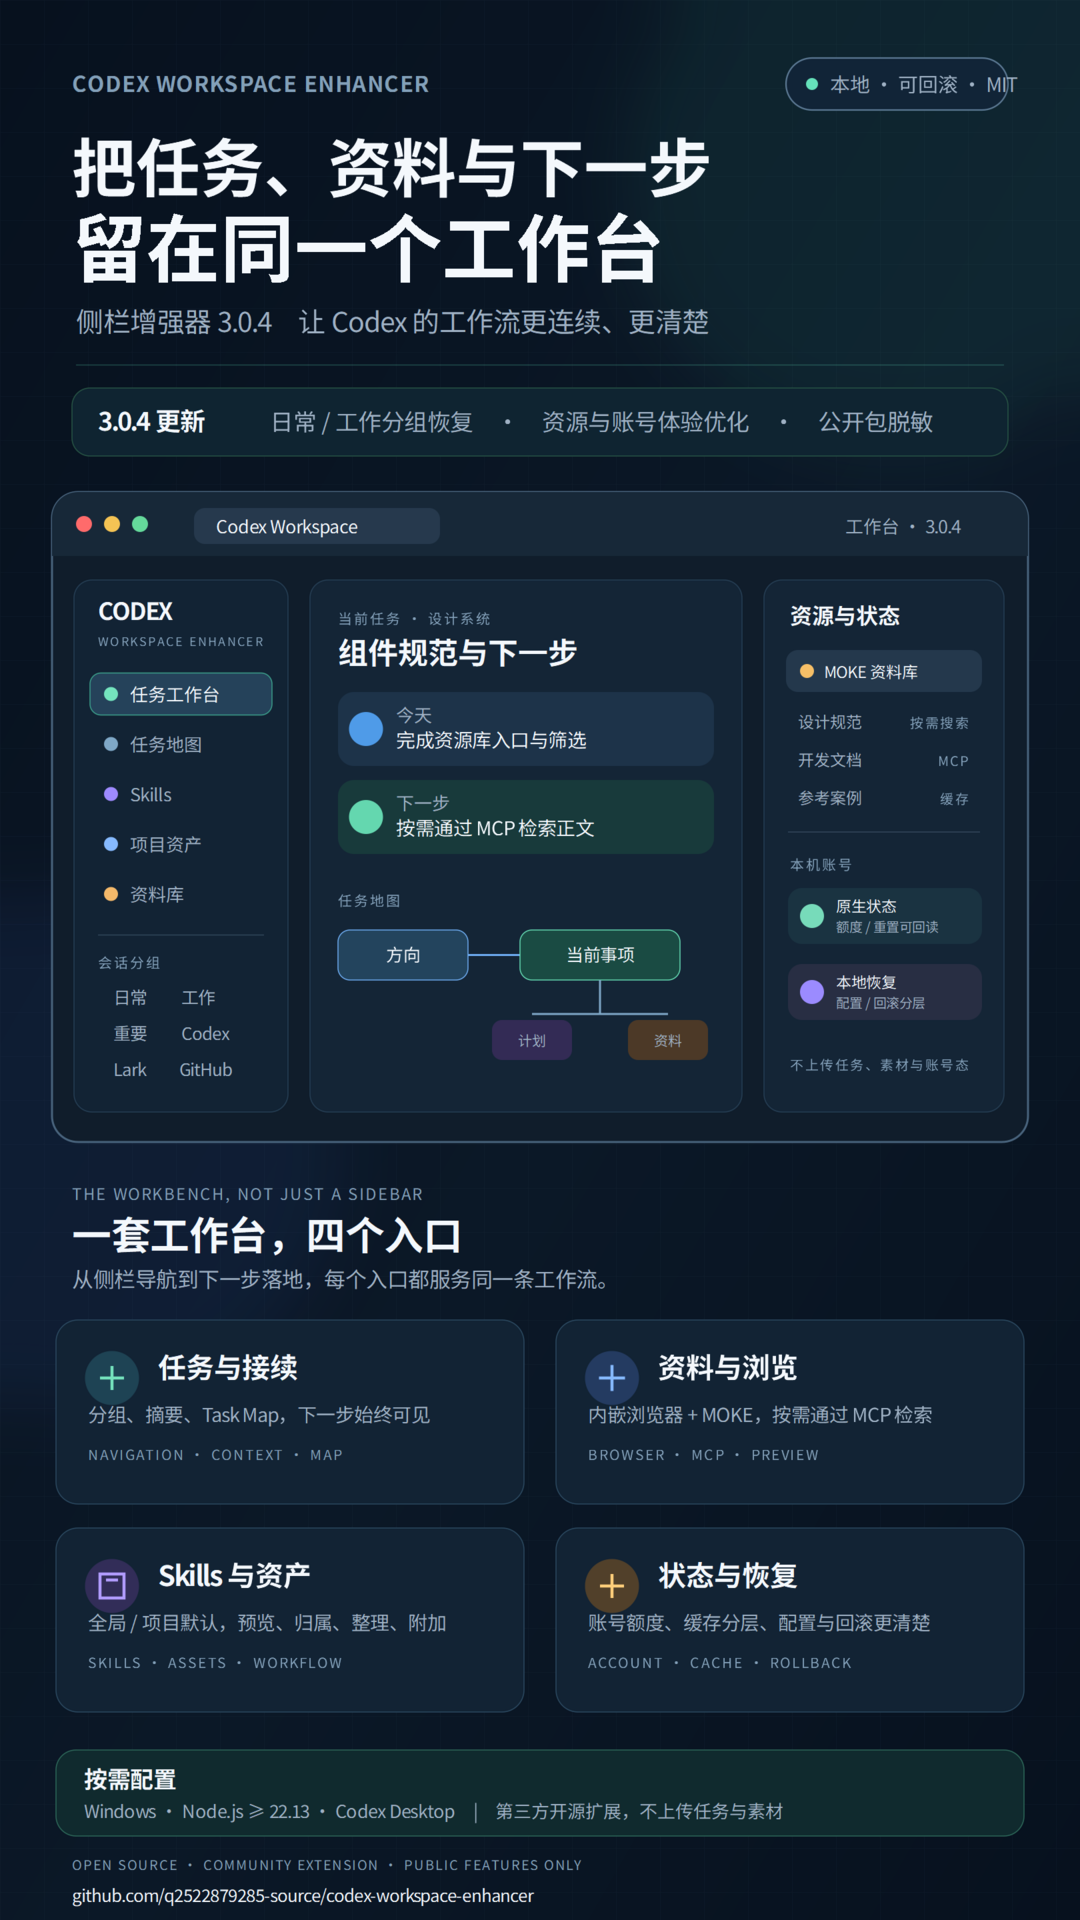
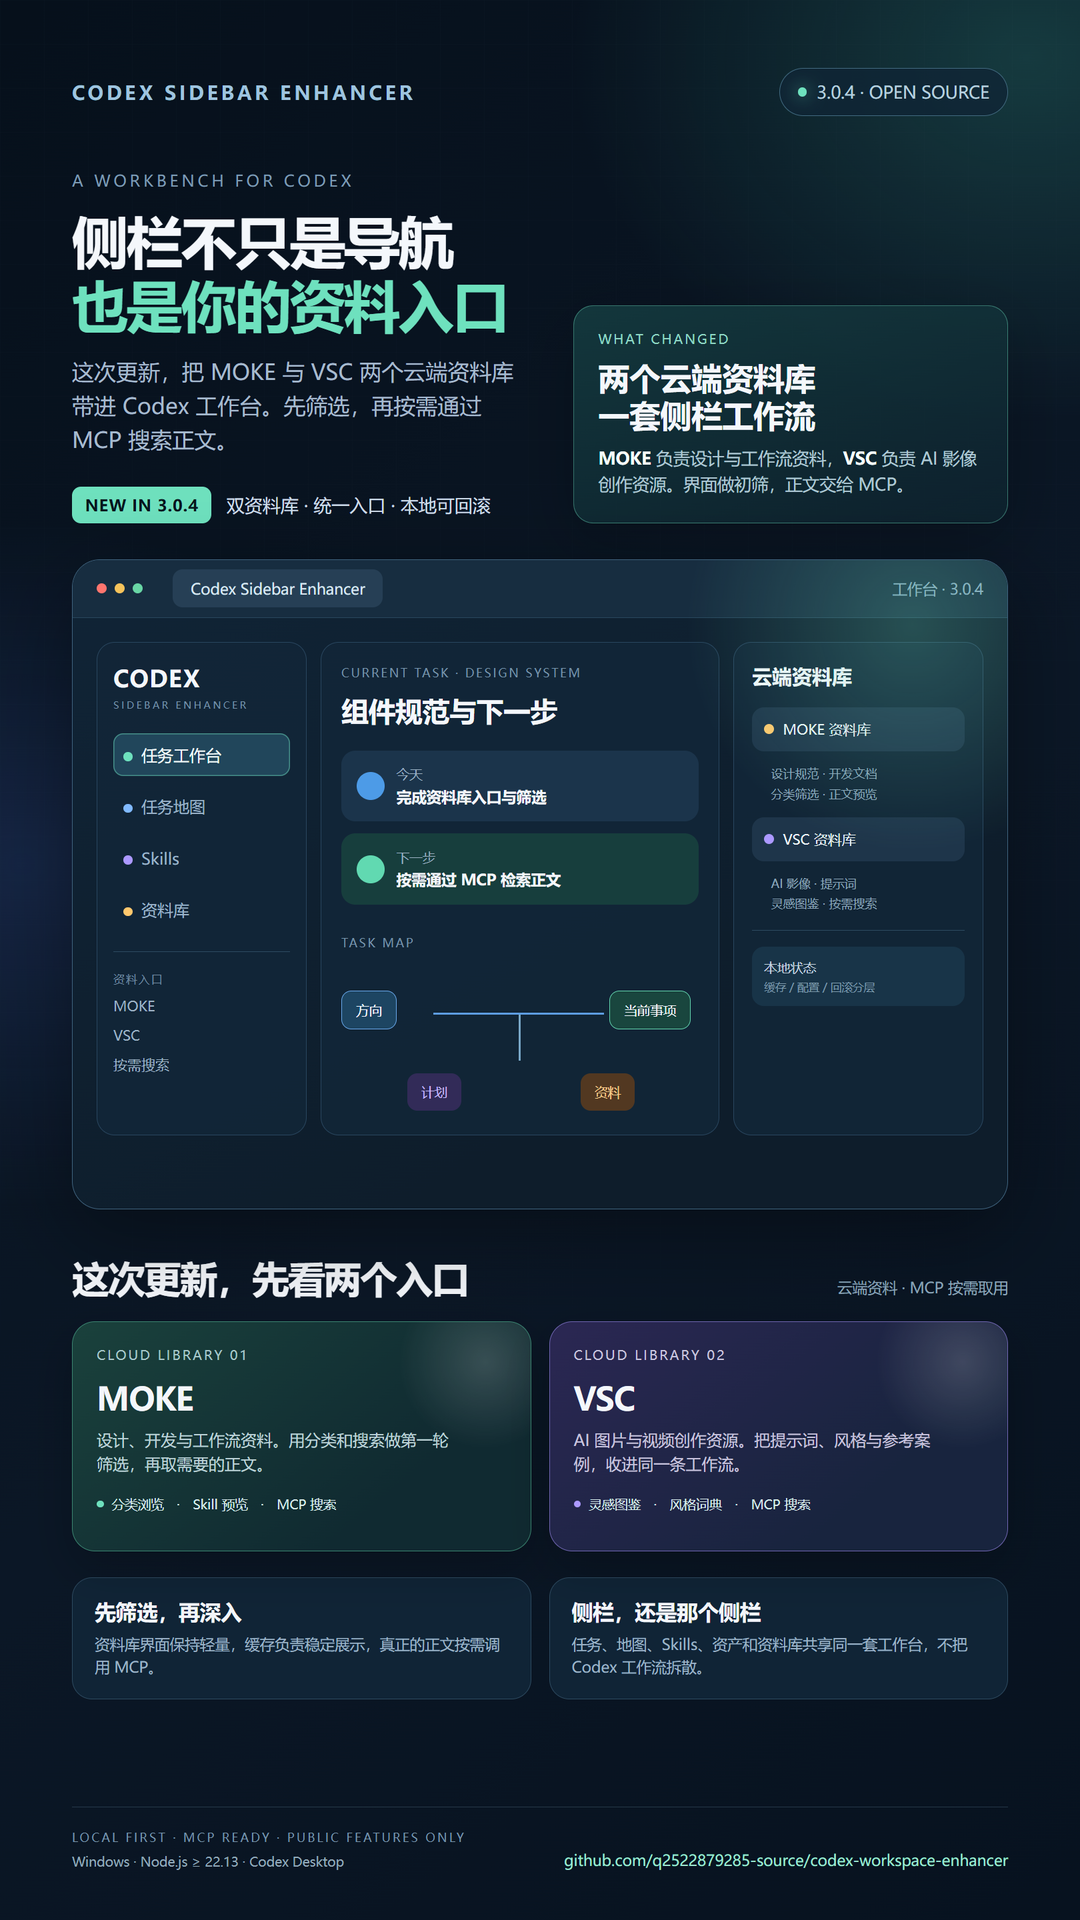
Highlight MOKE and VSC cloud libraries

diff --git a/docs/codex-workspace-enhancer-onepage.html b/docs/codex-workspace-enhancer-onepage.html
@@ -1,0 +1,25 @@
+<!doctype html>
+<html lang="zh-CN">
+<head>
+<meta charset="utf-8">
+<meta name="viewport" content="width=1080, initial-scale=1">
+<title>Codex Sidebar Enhancer 3.0.4</title>
+<style>
+:root{--ink:#07111d;--panel:#0f2030;--panel2:#142a3d;--line:#28455b;--text:#f4f7fb;--muted:#9fb4c8;--soft:#718ba2;--mint:#6ee1be;--mint2:#2fae9a;--blue:#81baff;--violet:#ac99ff;--amber:#ffc86d;--coral:#ff8b76}
+*{box-sizing:border-box} html,body{margin:0;width:1080px;height:1920px;background:var(--ink);color:var(--text);font-family:"Microsoft YaHei","Noto Sans SC",Arial,sans-serif} body{overflow:hidden}
+.canvas{position:relative;width:1080px;height:1920px;padding:68px 72px 52px;overflow:hidden;background:radial-gradient(700px 560px at 95% 3%,rgba(62,180,158,.24),transparent 65%),radial-gradient(620px 520px at 2% 45%,rgba(76,115,225,.18),transparent 66%),linear-gradient(140deg,#06101b 0%,#0b1726 56%,#07121f 100%)}
+.canvas:before{content:"";position:absolute;inset:0;opacity:.28;background-image:linear-gradient(rgba(150,180,210,.06) 1px,transparent 1px),linear-gradient(90deg,rgba(150,180,210,.06) 1px,transparent 1px);background-size:44px 44px;mask-image:linear-gradient(to bottom,black 0%,transparent 88%)}
+.content{position:relative;z-index:1}
+.topline{display:flex;justify-content:space-between;align-items:center;margin-bottom:54px}.brand{font-size:19px;letter-spacing:3.2px;color:#9fc4df;font-weight:700}.badge{display:flex;gap:10px;align-items:center;border:1px solid #426a80;border-radius:999px;padding:12px 18px;color:#b7d0df;font-size:17px;background:rgba(15,35,52,.76)}.dot{width:9px;height:9px;border-radius:50%;background:var(--mint);box-shadow:0 0 18px rgba(110,225,190,.8)}
+.hero{display:grid;grid-template-columns:1.03fr .97fr;gap:40px;align-items:start;margin-bottom:36px}.eyebrow{font-size:16px;letter-spacing:3.1px;color:#7d9bb3;margin-bottom:18px}.title{font-size:56px;line-height:1.14;letter-spacing:-1.6px;font-weight:800;margin:0 0 18px}.title em{font-style:normal;color:var(--mint)}.sub{font-size:22px;line-height:1.55;color:#a7bbce;margin:0;max-width:520px}.release{margin-top:30px;display:flex;align-items:center;gap:15px;color:#cfdeea;font-size:18px}.release b{color:#06161d;background:var(--mint);padding:8px 13px;border-radius:9px;font-size:16px;letter-spacing:.5px}.hero-note{align-self:end;padding:24px 24px 26px;border:1px solid rgba(110,225,190,.42);border-radius:20px;background:linear-gradient(160deg,rgba(21,60,64,.86),rgba(13,34,46,.84));box-shadow:0 18px 60px rgba(0,0,0,.2)}.hero-note .kicker{font-size:13px;letter-spacing:2px;color:#8fd8c5;margin-bottom:12px}.hero-note h2{font-size:31px;line-height:1.2;margin:0 0 12px}.hero-note p{font-size:17px;line-height:1.5;color:#b0c9d4;margin:0}.hero-note strong{color:#f7fffd}
+.stage{position:relative;margin-top:24px;height:650px;border:1px solid #3f637e;border-radius:28px;background:linear-gradient(150deg,#102436,#0e1d2b 72%);box-shadow:0 26px 80px rgba(0,0,0,.34);overflow:hidden}.stage:before{content:"";position:absolute;width:470px;height:470px;right:-140px;top:-170px;border-radius:50%;background:radial-gradient(circle,rgba(111,225,190,.25),transparent 68%)}.stagebar{height:58px;display:flex;align-items:center;padding:0 24px;gap:10px;background:#172d40;border-bottom:1px solid #28475d}.lights{display:flex;gap:8px}.light{width:10px;height:10px;border-radius:50%}.l1{background:#ff756e}.l2{background:#f6c35b}.l3{background:#69d6a5}.windowlabel{margin-left:20px;background:#263f55;padding:9px 18px;border-radius:10px;color:#d9e7f1;font-size:15px}.stagever{margin-left:auto;color:#8ea9bf;font-size:15px}.stagebody{display:grid;grid-template-columns:210px 1fr 250px;gap:14px;padding:24px}.rail,.work,.context{border:1px solid #29465f;border-radius:18px;background:rgba(18,38,55,.9)}.rail{padding:20px 16px}.railbrand{font-size:23px;font-weight:800;letter-spacing:1px}.railsmall{font-size:10px;letter-spacing:2.2px;color:#7592a9;margin-top:5px}.nav{margin-top:22px;display:grid;gap:9px}.navitem{padding:11px 10px;border-radius:10px;color:#9db5c9;font-size:16px}.navitem.active{background:#21465b;color:#f2fbfa;box-shadow:inset 0 0 0 1px rgba(110,225,190,.48)}.navitem span{display:inline-block;width:9px;height:9px;border-radius:50%;margin-right:9px}.n1{background:var(--mint)}.n2{background:var(--blue)}.n3{background:var(--violet)}.n4{background:var(--amber)}.railrule{height:1px;background:#2d4b61;margin:20px 0}.railhint{font-size:11px;color:#718ba2;letter-spacing:1.6px}.railgroups{font-size:14px;color:#9eb4c7;line-height:2.1;margin-top:5px}.work{padding:22px 20px}.worklabel{font-size:12px;letter-spacing:1.7px;color:#7794aa}.work h3{font-size:27px;margin:12px 0 22px}.taskrow{padding:15px 15px;border-radius:14px;background:#1b344b;margin-bottom:12px;display:flex;gap:12px;align-items:center}.taskrow.green{background:#173e3d}.taskicon{width:28px;height:28px;border-radius:50%;background:#4d9be7}.green .taskicon{background:#61d9b1}.taskrow small{display:block;font-size:13px;color:#9bb1c3;margin-bottom:3px}.taskrow b{font-size:15px;font-weight:600}.maplabel{font-size:12px;letter-spacing:1.7px;color:#7794aa;margin-top:30px}.map{position:relative;height:150px;margin-top:12px}.node{position:absolute;padding:10px 14px;border-radius:10px;font-size:13px}.node.a{left:0;top:28px;background:#1d4562;border:1px solid #69a9ed}.node.b{right:8px;top:28px;background:#19463e;border:1px solid #63d5b0}.node.c{left:66px;bottom:2px;background:#322b58;color:#c7bbff}.node.d{right:64px;bottom:2px;background:#523821;color:#f7cd8f}.mapline{position:absolute;top:50px;left:92px;right:95px;border-top:2px solid #5d9de2}.mapline:after{content:"";position:absolute;left:50%;top:0;height:46px;border-left:2px solid #79a8c8}.context{padding:20px 18px}.context h4{font-size:20px;margin:0 0 18px}.libmini{border-radius:12px;padding:13px 12px;margin-bottom:12px;display:flex;align-items:center;gap:9px;background:#1e354a;color:#eef6fa;font-size:14px}.libdot{width:10px;height:10px;border-radius:50%}.moke{background:var(--amber)}.vsc{background:var(--violet)}.ctxmeta{font-size:12px;color:#8da7bb;line-height:1.7;margin:0 0 13px 19px}.ctxrule{height:1px;background:#2d4b61;margin:16px 0}.account{font-size:13px;color:#c6d5e0;padding:12px;border-radius:12px;background:#183448}.account span{display:block;font-size:11px;color:#7e9bad;margin-top:4px}
+.sectionhead{display:flex;align-items:end;justify-content:space-between;margin-top:44px;margin-bottom:19px}.sectionhead h2{font-size:37px;letter-spacing:-1px;margin:0}.sectionhead p{color:#8fa9bd;font-size:15px;margin:0 0 5px}.cloud-grid{display:grid;grid-template-columns:1fr 1fr;gap:18px}.cloud{position:relative;min-height:230px;padding:24px;border-radius:23px;overflow:hidden;box-shadow:0 18px 45px rgba(0,0,0,.2)}.cloud.moke-card{background:linear-gradient(140deg,#1a413c,#102a31 72%);border:1px solid #3b8571}.cloud.vsc-card{background:linear-gradient(140deg,#2b2753,#18243e 72%);border:1px solid #6f65b1}.cloud:after{content:"";position:absolute;width:180px;height:180px;right:-45px;top:-50px;border-radius:50%;background:radial-gradient(circle,rgba(255,255,255,.16),transparent 68%)}.cloud .cloudtag{font-size:13px;letter-spacing:2px;color:#a7c8ca}.cloud h3{font-size:32px;margin:13px 0 9px;letter-spacing:-.8px}.cloud p{font-size:16px;color:#bfd4d8;line-height:1.5;margin:0;max-width:360px}.cloud .route{display:flex;gap:8px;align-items:center;margin-top:19px;font-size:13px;color:#d9ecec}.route i{width:7px;height:7px;border-radius:50%;background:var(--mint)}.vsc-card .cloudtag,.vsc-card p{color:#c9c5df}.vsc-card .route i{background:var(--violet)}
+.bottom{margin-top:26px;display:grid;grid-template-columns:1fr 1fr;gap:18px}.mini{padding:20px 22px;border:1px solid #2d4a60;border-radius:20px;background:#102436}.mini h4{font-size:21px;margin:0 0 8px}.mini p{font-size:15px;line-height:1.5;color:#9eb5c7;margin:0}.footer{position:absolute;left:72px;right:72px;bottom:50px;border-top:1px solid rgba(125,165,188,.25);padding-top:18px;display:flex;justify-content:space-between;align-items:end}.footer small{font-size:12px;letter-spacing:2px;color:#7896ad}.footer a{font-size:15px;color:#9de7d1;text-decoration:none}.footer .install{font-size:13px;color:#91a9ba;margin-top:7px}
+</style></head>
+<body><main class="canvas"><div class="content">
+<div class="topline"><div class="brand">CODEX SIDEBAR ENHANCER</div><div class="badge"><span class="dot"></span>3.0.4 · OPEN SOURCE</div></div>
+<section class="hero"><div><div class="eyebrow">A WORKBENCH FOR CODEX</div><h1 class="title">侧栏不只是导航<br><em>也是你的资料入口</em></h1><p class="sub">这次更新，把 MOKE 与 VSC 两个云端资料库带进 Codex 工作台。先筛选，再按需通过 MCP 搜索正文。</p><div class="release"><b>NEW IN 3.0.4</b><span>双资料库 · 统一入口 · 本地可回滚</span></div></div><div class="hero-note"><div class="kicker">WHAT CHANGED</div><h2>两个云端资料库<br>一套侧栏工作流</h2><p><strong>MOKE</strong> 负责设计与工作流资料，<strong>VSC</strong> 负责 AI 影像创作资源。界面做初筛，正文交给 MCP。</p></div></section>
+<div class="stage"><div class="stagebar"><div class="lights"><span class="light l1"></span><span class="light l2"></span><span class="light l3"></span></div><div class="windowlabel">Codex Sidebar Enhancer</div><div class="stagever">工作台 · 3.0.4</div></div><div class="stagebody"><aside class="rail"><div class="railbrand">CODEX</div><div class="railsmall">SIDEBAR ENHANCER</div><div class="nav"><div class="navitem active"><span class="n1"></span>任务工作台</div><div class="navitem"><span class="n2"></span>任务地图</div><div class="navitem"><span class="n3"></span>Skills</div><div class="navitem"><span class="n4"></span>资料库</div></div><div class="railrule"></div><div class="railhint">资料入口</div><div class="railgroups">MOKE<br>VSC<br>按需搜索</div></aside><section class="work"><div class="worklabel">CURRENT TASK · DESIGN SYSTEM</div><h3>组件规范与下一步</h3><div class="taskrow"><span class="taskicon"></span><div><small>今天</small><b>完成资料库入口与筛选</b></div></div><div class="taskrow green"><span class="taskicon"></span><div><small>下一步</small><b>按需通过 MCP 检索正文</b></div></div><div class="maplabel">TASK MAP</div><div class="map"><div class="node a">方向</div><div class="mapline"></div><div class="node b">当前事项</div><div class="node c">计划</div><div class="node d">资料</div></div></section><aside class="context"><h4>云端资料库</h4><div class="libmini"><span class="libdot moke"></span>MOKE 资料库</div><p class="ctxmeta">设计规范 · 开发文档<br>分类筛选 · 正文预览</p><div class="libmini"><span class="libdot vsc"></span>VSC 资料库</div><p class="ctxmeta">AI 影像 · 提示词<br>灵感图鉴 · 按需搜索</p><div class="ctxrule"></div><div class="account">本地状态<span>缓存 / 配置 / 回滚分层</span></div></aside></div></div>
+<div class="sectionhead"><h2>这次更新，先看两个入口</h2><p>云端资料 · MCP 按需取用</p></div><div class="cloud-grid"><article class="cloud moke-card"><div class="cloudtag">CLOUD LIBRARY 01</div><h3>MOKE</h3><p>设计、开发与工作流资料。用分类和搜索做第一轮筛选，再取需要的正文。</p><div class="route"><i></i>分类浏览　·　Skill 预览　·　MCP 搜索</div></article><article class="cloud vsc-card"><div class="cloudtag">CLOUD LIBRARY 02</div><h3>VSC</h3><p>AI 图片与视频创作资源。把提示词、风格与参考案例，收进同一条工作流。</p><div class="route"><i></i>灵感图鉴　·　风格词典　·　MCP 搜索</div></article></div>
+<div class="bottom"><article class="mini"><h4>先筛选，再深入</h4><p>资料库界面保持轻量，缓存负责稳定展示，真正的正文按需调用 MCP。</p></article><article class="mini"><h4>侧栏，还是那个侧栏</h4><p>任务、地图、Skills、资产和资料库共享同一套工作台，不把 Codex 工作流拆散。</p></article></div>
+</div><footer class="footer"><div><small>LOCAL FIRST · MCP READY · PUBLIC FEATURES ONLY</small><div class="install">Windows · Node.js ≥ 22.13 · Codex Desktop</div></div><a href="https://github.com/q2522879285-source/codex-workspace-enhancer">github.com/q2522879285-source/codex-workspace-enhancer</a></footer></main></body></html>

diff --git a/README.md b/README.md
@@ -6,7 +6,7 @@
 
 [下载发布包](https://github.com/q2522879285-source/codex-workspace-enhancer/releases/latest) · [修改与扩展](docs/EXTENDING.md) · [版本区别](CHANGELOG.md) · [English](README.en.md)
 
-![Codex Workspace Enhancer 3.0.4 工作台总览](docs/codex-workspace-enhancer-onepage.png)
+![Codex Sidebar Enhancer 3.0.4：MOKE 与 VSC 云端资料库](docs/codex-workspace-enhancer-onepage.png)（[源稿](docs/codex-workspace-enhancer-onepage.html)）
 
 ## 一套连续的工作台
 
